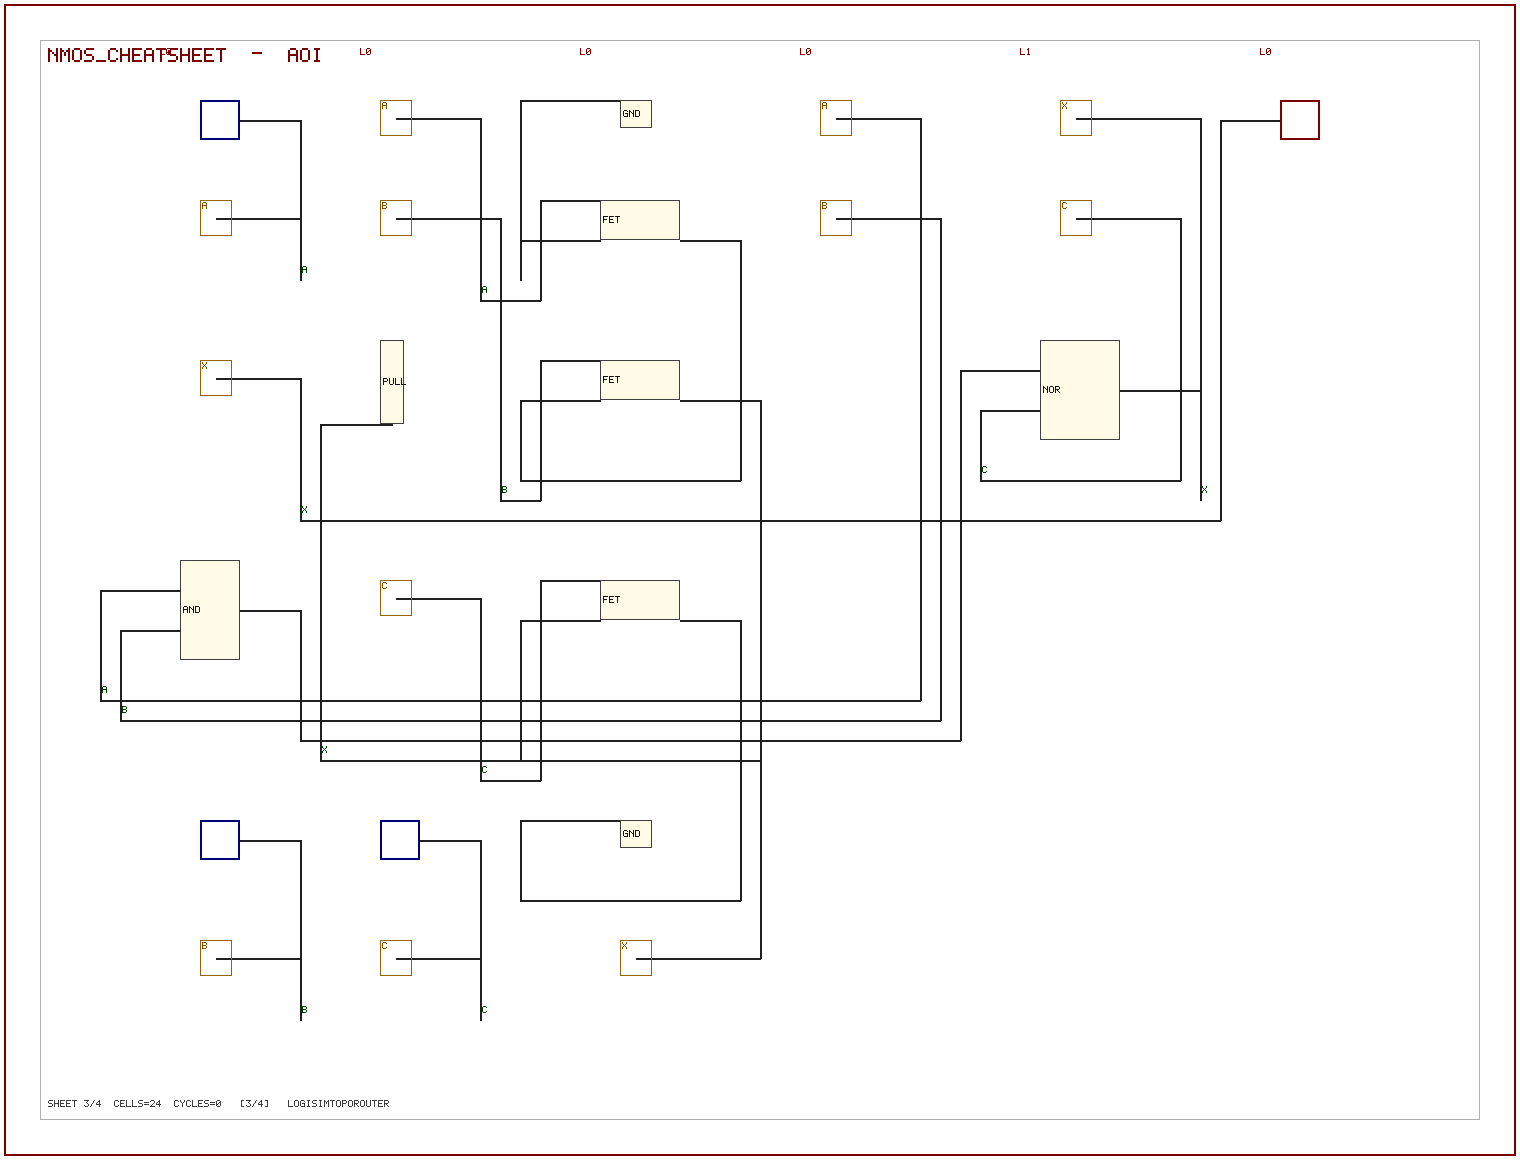
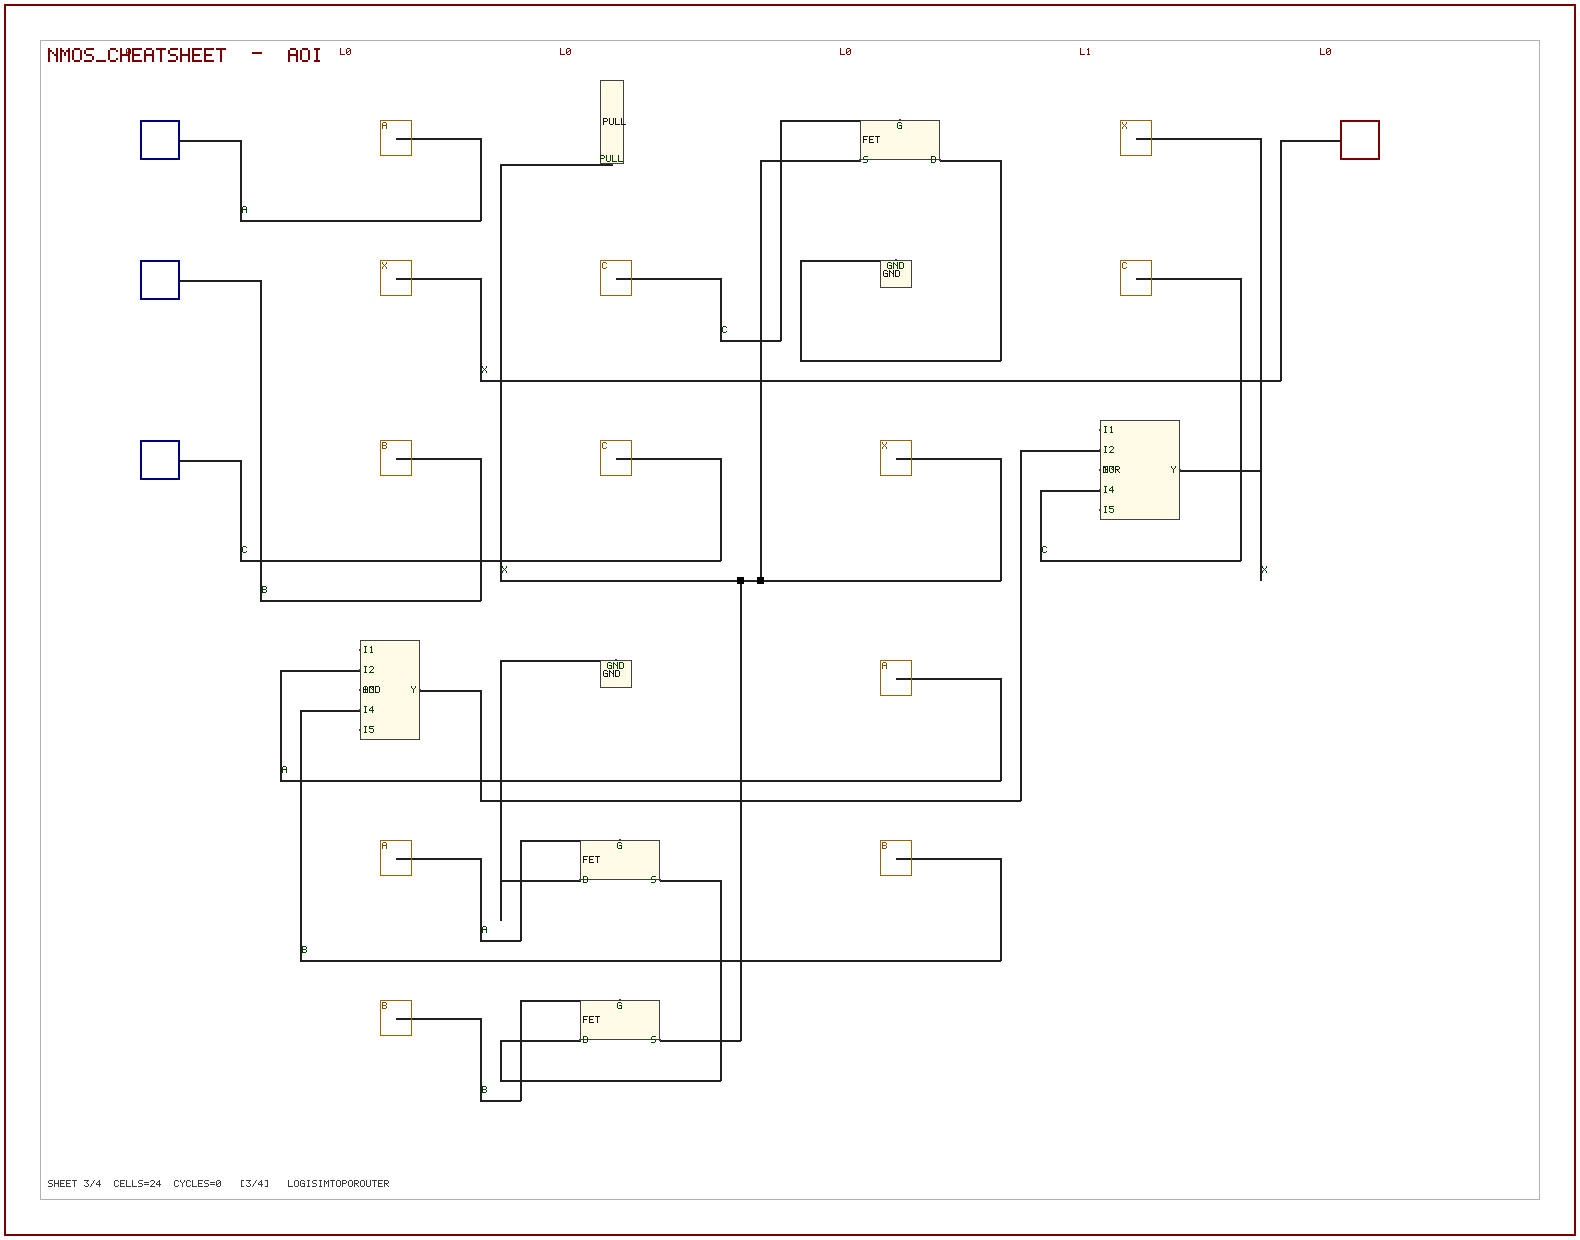
Scripts: LogisimTopoRouter - readable PNG output (issue #1391)
Renderer and layout feedback round:
* draw a square junction dot wherever three or more wire ends meet, so that a
  connection can be told apart from a plain crossing;
* draw the connection names inside every cell (gates I1..In/Y, flip-flop
  D/CLK/Q/NQ/CLR/PRE/EN, transistor S/D/G, blocks use the sub-circuit's pin
  labels) instead of leaving the blocks unlabelled;
* write a block's name above the block, and keep the instance label below it;
* bus segments are now drawn thick along their whole length;
* primary inputs and primary outputs each get a dedicated column that is never
  folded, so all inputs sit on the left edge and all outputs on the right edge;
* refresh Scripts/LogisimTopoRouter_example.png.

Verification unchanged: all 12 projects / 535 circuits round-trip with an
identical netlist.

diff --git a/Scripts/LogisimTopoRouter.py b/Scripts/LogisimTopoRouter.py
@@ -321,9 +321,11 @@ class Net:
     external_in: list = field(default_factory=list)
     external_out: list = field(default_factory=list)
     warnings: list = field(default_factory=list)
+    reason: list = field(default_factory=list)
     # routing results
     lane_x: dict = field(default_factory=dict)    # gap index -> x
     track_y: int = None
+    wires: list = field(default_factory=list)     # segments generated for this net
 
     def comps(self):
         seen = []
@@ -2375,11 +2377,13 @@ def _ordered_columns(circ: Circuit, style: dict):
     comps = [c for c in circ.comps]
     for comp in comps:
         if comp.is_pin():
+            # primary inputs get their own column on the far left, primary outputs their
+            # own column on the far right (so they never mix with the logic columns)
             comp.col = 0 if not comp.pin_is_output() else -1
         else:
-            comp.col = comp.level
+            comp.col = comp.level + 1
 
-    max_level = max((c.col for c in comps), default=0)
+    max_level = max((c.col for c in comps if c.col >= 0), default=0)
     out_col = max_level + 1 if style["layout"].get("io_columns", True) else max_level
     for comp in comps:
         if comp.col < 0:
@@ -2436,8 +2440,12 @@ def _ordered_columns(circ: Circuit, style: dict):
         new_index = 0
         for col in range(ncols):
             items = cols[col]
-            for start in range(0, len(items), max_rows):
-                folded[new_index] = items[start:start + max_rows]
+            # the primary-input / primary-output columns are never folded: the ports
+            # stay grouped on the left and on the right edge of the sheet
+            io_column = bool(items) and all(c.is_pin() for c in items)
+            step = len(items) if io_column else max_rows
+            for start in range(0, max(len(items), 1), max(1, step)):
+                folded[new_index] = items[start:start + step]
                 new_index += 1
         cols = folded
         ncols = new_index
@@ -2622,6 +2630,7 @@ def layout_circuit(circ: Circuit, style: dict, track_pitch=None, lane_pitch=None
         if ty is None:
             continue
         net.track_y = ty
+        before = len(wires)
         used_lanes = set()
         for comp, i, gap, dirn in items:
             port = comp.ports[i]
@@ -2639,6 +2648,7 @@ def layout_circuit(circ: Circuit, style: dict, track_pitch=None, lane_pitch=None
         xs = sorted(used_lanes)
         for a, b in zip(xs, xs[1:]):
             wires.append(((a, ty), (b, ty)))
+        net.wires = [((a, b) if a <= b else (b, a)) for a, b in wires[before:]]
     sheet.wires = _dedup_wires(wires)
 
     sheet.opens, sheet.shorts = verify_routing(circ, sheet.wires)
@@ -3715,21 +3725,30 @@ class SheetRenderer:
     def _wires(self, img, sheet, scale):
         wire = _hex_to_rgb(self.png.get("wire_color", "#202020"), (32, 32, 32))
         bus = _hex_to_rgb(self.png.get("bus_color", "#004080"), (0, 64, 128))
-        widths = {}
+        junc = _hex_to_rgb(self.png.get("junction_color", "#000000"), (0, 0, 0))
+        jsize = max(2, int(self.png.get("junction_size", 3)) * max(1, scale // 2))
+        bus_width = max(2, int(self.png.get("bus_width", 3)))
+        bus_segments = set()
         for net in sheet.circ.nets:
-            for comp, i in net.members:
-                widths[(comp.idx, i)] = max(1, comp.ports[i].width)
-        bus_nets = {net.idx for net in sheet.circ.nets if net.width > 1}
+            if net.width > 1:
+                for a, b in net.wires:
+                    bus_segments.add((a, b) if a <= b else (b, a))
+        ends = Counter()
         for a, b in sheet.wires:
-            img.line(self._px(a, scale), self._px(b, scale), wire,
-                     max(1, scale))
-        for net in sheet.circ.nets:
-            if net.idx not in bus_nets or net.track_y is None:
+            ends[a] += 1
+            ends[b] += 1
+            key = (a, b) if a <= b else (b, a)
+            if key in bus_segments:
+                img.line(self._px(a, scale), self._px(b, scale), bus, bus_width)
+            else:
+                img.line(self._px(a, scale), self._px(b, scale), wire, max(1, scale))
+        # a wire *joins* another where three or more segment ends meet: mark it with a
+        # square dot so that connections are distinguishable from plain crossings
+        for point, count in ends.items():
+            if count < 3:
                 continue
-            xs = sorted(net.lane_x.values())
-            if xs:
-                img.hline(xs[0] * scale, xs[-1] * scale, net.track_y * scale, bus,
-                          max(1, scale))
+            x, y = self._px(point, scale)
+            img.fill((x - jsize, y - jsize, 2 * jsize + 1, 2 * jsize + 1), junc)
 
     def _cells(self, img, sheet, scale):
         fill = _hex_to_rgb(self.png.get("cell_fill", "#fffbe6"), (255, 251, 230))
@@ -3739,6 +3758,8 @@ class SheetRenderer:
         in_col = _hex_to_rgb(self.style["text"].get("input_color", "#00007a"), (0, 0, 122))
         out_col = _hex_to_rgb(self.style["text"].get("output_color", "#7a0000"), (122, 0, 0))
         label_col = _hex_to_rgb(self.style["text"].get("block_color", "#00007a"), (0, 0, 122))
+        port_col = _hex_to_rgb(self.style["text"].get("signal_color", "#004000"), (0, 64, 0))
+        show_ports = bool(self.png.get("port_labels", True))
         for comp in sheet.circ.comps:
             base = comp.new_loc or comp.loc
             bx, by, bw, bh = comp.bbox
@@ -3765,14 +3786,40 @@ class SheetRenderer:
                 fill2 if comp.name in MEMORY_CELLS else fill)
             img.fill(box, body)
             img.rect(box, edge, 1)
-            short = CELL_SHORT.get(comp.name, comp.name[:6].upper())
-            cx = box[0] + 3
-            cy = box[1] + max(2, (box[3] - 7) // 2)
-            img.text(cx, cy, short, (20, 20, 20), scale=1)
-            if comp.subcircuit:
-                img.text(box[0] + 3, box[1] + 3, comp.subcircuit[:16], (60, 0, 90), scale=1)
+            # the cell name goes *above* the block; a plain gate keeps its symbol inside
+            if comp.subcircuit or comp.name in MEMORY_CELLS:
+                img.text(box[0] + 2, box[1] - 9 * max(1, scale // 2),
+                         comp.subcircuit or comp.name, (60, 0, 90), scale=1)
+            else:
+                short = CELL_SHORT.get(comp.name, comp.name[:6].upper())
+                cx = box[0] + 3
+                cy = box[1] + max(2, (box[3] - 7) // 2)
+                img.text(cx, cy, short, (20, 20, 20), scale=1)
             if comp.label:
                 img.text(box[0] + 2, box[1] + box[3] + 2, comp.label, label_col, scale=1)
+            # connection points, with their names, drawn inside the cell box
+            if not show_ports:
+                continue
+            for port in comp.ports:
+                if not port.name or port.name == "?":
+                    continue
+                px = (base[0] + port.dx) * scale
+                py = (base[1] + port.dy) * scale
+                side = pin_side(comp, port)
+                img.fill((px - max(1, scale // 2), py - max(1, scale // 2),
+                          max(2, scale), max(2, scale)), edge)
+                if side == "west":
+                    img.text(box[0] + 3, py - 4, port.name, port_col, scale=1)
+                elif side == "east":
+                    w = img.text_width(port.name, scale=1)
+                    img.text(box[0] + box[2] - w - 3, py - 4, port.name, port_col,
+                             scale=1)
+                elif side == "north":
+                    img.text(px - img.text_width(port.name, scale=1) // 2, box[1] + 2,
+                             port.name, port_col, scale=1)
+                else:
+                    img.text(px - img.text_width(port.name, scale=1) // 2,
+                             box[1] + box[3] - 9, port.name, port_col, scale=1)
 
     def _headers(self, img, sheet, scale):
         color = _hex_to_rgb(self.style["text"].get("sheet_title_color", "#7a0000"), (122, 0, 0))
